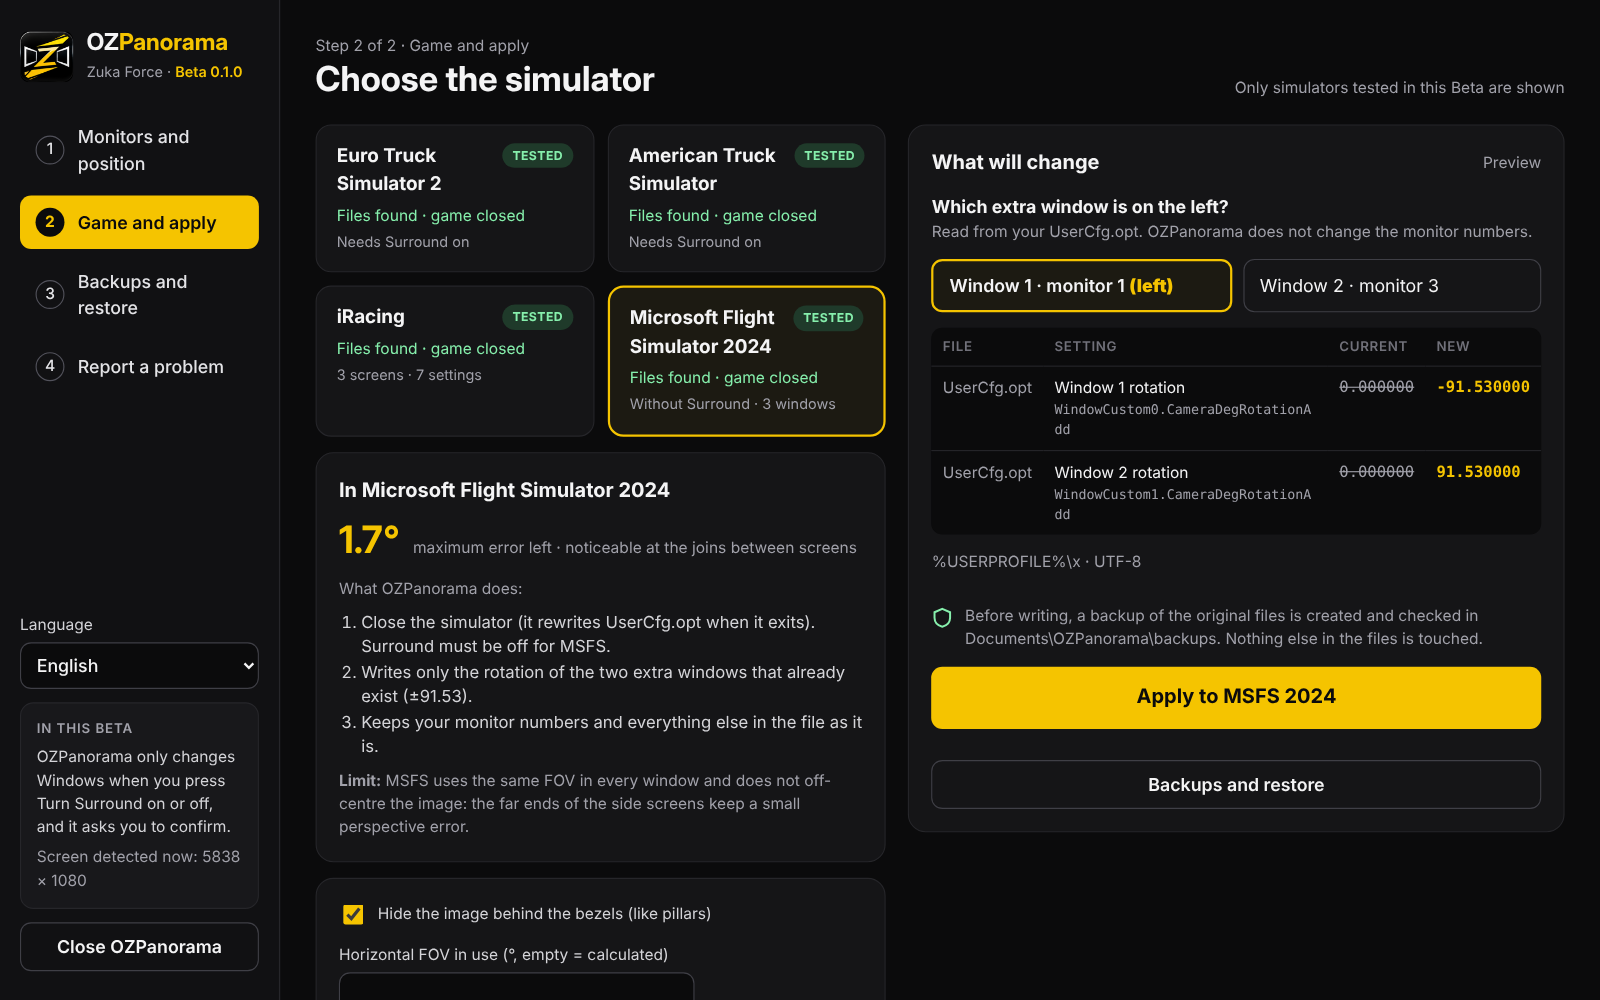
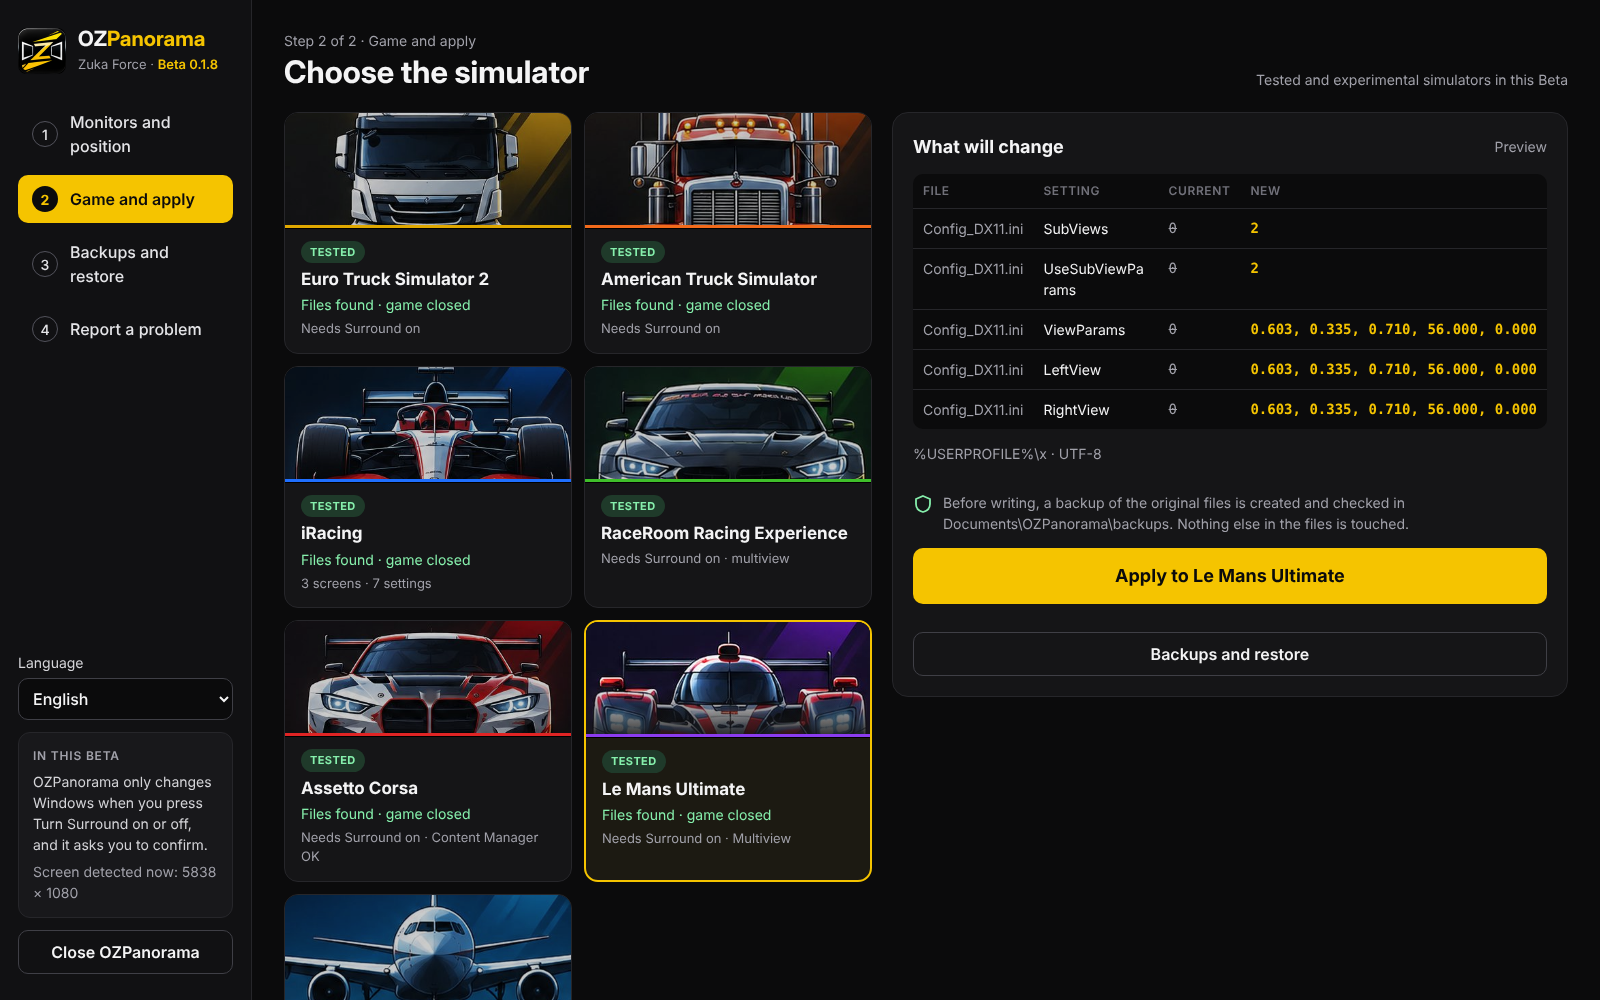
README: imagens da 0.1.8 e dois monitores

diff --git a/README.md b/README.md
@@ -31,12 +31,17 @@ and **writes the right values into the game's files**, with a backup and a check
 
 <p align="center">
   <img src="docs/images/screenshot-jogo.png" alt="OZPanorama: choosing the simulator, previewing what will change and the Apply button" width="900">
-  <br><sub>Beta 0.1 with the example rig: what will change in the MSFS 2024 file, current and new value, before applying.</sub>
+  <br><sub>Beta 0.1.8 with the example rig: the seven simulators, and what will change in the Le Mans Ultimate file (current and new value) before applying.</sub>
 </p>
 
 <p align="center">
   <img src="docs/images/screenshot-monitores.png" alt="OZPanorama: monitor measurements and top view to scale" width="900">
   <br><sub>Monitor measurements, top view to scale with your head, and the quality of the joins.</sub>
+</p>
+
+<p align="center">
+  <img src="docs/images/screenshot-dois-monitores.png" alt="OZPanorama: two monitors, main on the right and side window on the left monitor" width="900">
+  <br><sub>Two monitors (ETS2, ATS and MSFS 2024): choose which side the second monitor is on.</sub>
 </p>
 
 > **Beta.** Try it first at a time when you can go back. Every change has a backup and can be restored inside the app.
@@ -47,18 +52,21 @@ and **writes the right values into the game's files**, with a backup and a check
 |---|---|---|
 | Microsoft Flight Simulator 2024 | Tested (three monitors); two monitors experimental | Only the rotation of the extra windows that already exist in `UserCfg.opt` (two, or one with two monitors) |
 | Euro Truck Simulator 2 | Tested (three monitors); two monitors experimental | `multimon_config.sii` and `r_multimon_mode "4"` in `config.cfg` |
-| American Truck Simulator | Tested | Same as ETS2 |
+| American Truck Simulator | Tested (three monitors); two monitors experimental | Same as ETS2 |
 | iRacing | Tested | 7 settings in `rendererDX11Monitor.ini` |
 | RaceRoom Racing Experience | Tested | Triple screen settings in `graphics_options.xml` (distance, screen sizes, bezels, angles) |
 | Assetto Corsa | Tested (with Content Manager) | `triple_screen.ini` (position of each screen) and `MODE=TRIPLE` in `video.ini` |
 | Le Mans Ultimate | Tested | The three views (`SubViews=2`) and `ViewParams` / `LeftView` / `RightView` in `Config_DX11.ini` |
+
+**Two monitors** (main monitor plus one side monitor, left or right) work in ETS2, ATS and MSFS 2024. iRacing, RaceRoom,
+Assetto Corsa and Le Mans Ultimate only have three-screen modes, so they need three monitors.
 
 "Tested" means tested by the author on his own rig (three 27" monitors). Other rigs may behave differently:
 use **Report a problem** in the app.
 
 ## What it does for you
 
-- **Detect monitors**: reads each monitor's name and size, even with NVIDIA Surround on, and places them left / center / right.
+- **Detect monitors**: reads each monitor's name and size, even with NVIDIA Surround on, and places them left / center / right. With two monitors it also picks the two-monitor mode and the side of the second one.
 - **Bezels**: calculated from the manufacturers' sheets for known monitors, with the **recommended NVIDIA bezel correction** in pixels (and a warning when the Surround hides a different amount).
 - **Side angle**: enter the distance between the outer ends of the left and right monitors and the angle appears by itself.
 - **Top view to scale**: your monitors and a head with real proportions, so you can see if it looks right.
